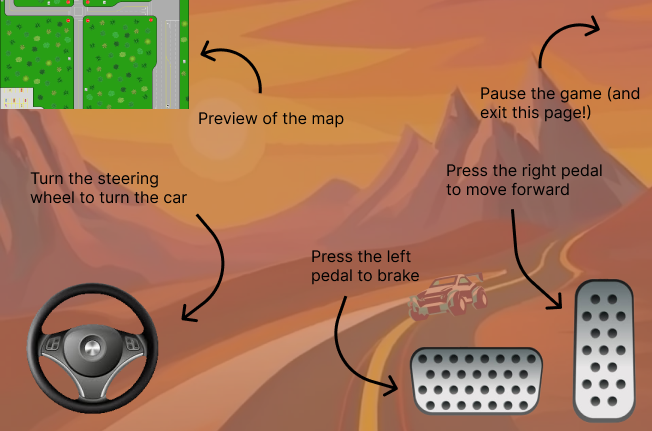
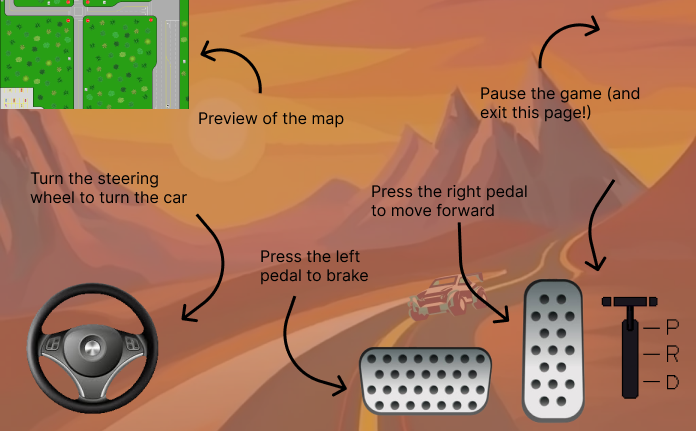
Added a gear stick with three modes

diff --git a/level.py b/level.py
@@ -4,7 +4,6 @@ from minimap import Minimap
 from map import Map
 from constants import *
 
-
 class Level:
     def __init__(self, screen, game_state_manager, position=pygame.Vector2(200, 200)):
         self.screen = screen
@@ -33,6 +32,10 @@ class Level:
         self.pause_rect = pygame.Rect(WIDTH // 10 * 9.5 - 25, HEIGHT // 10 - 25, 50, 50)
         self.minimap = Minimap(self.screen)
 
+        self.gear_image = pygame.image.load(os.path.join("Graphics", "Drive.png"))
+        self.gear_rect = self.gear_image.get_rect(center = (WIDTH // 10 * 9.6, HEIGHT // 10 * 8.2))
+        self.current_gear = "Drive"
+
         self.wheel_clicked = False
         self.wheel_image = pygame.image.load(os.path.join("Graphics", "SteeringWheel.png"))
         self.wheel_rect = self.wheel_image.get_rect(midbottom=(WIDTH // 10 + 10, HEIGHT - HEIGHT // 10 - 10))
@@ -40,16 +43,36 @@ class Level:
     def run(self):
         keys = pygame.key.get_pressed()
 
-        if keys[pygame.K_w]:
-            self.velocity -= self.acceleration
-        if keys[pygame.K_s]:
-            self.velocity += self.acceleration * 0.2
-        if keys[pygame.K_a]:
-            self.ang_vel = self.max_ang_vel
-        elif keys[pygame.K_d]:
-            self.ang_vel = -self.max_ang_vel
-        else:
-            self.ang_vel = 0
+        if self.current_gear == "Drive":
+            if keys[pygame.K_w]:
+                self.velocity -= self.acceleration
+            if keys[pygame.K_s]:
+                if self.velocity <= 0:
+                    self.velocity = 0
+                else:
+                    self.velocity += self.acceleration * 0.2
+            if keys[pygame.K_a]:
+                self.ang_vel = self.max_ang_vel
+            elif keys[pygame.K_d]:
+                self.ang_vel = -self.max_ang_vel
+            else:
+                self.ang_vel = 0
+        elif self.current_gear == "Reverse":
+            if keys[pygame.K_w]:
+                if self.velocity <= 0:
+                    self.velocity = 0
+                else:
+                    self.velocity -= self.acceleration * 0.2
+            if keys[pygame.K_s]:
+                self.velocity += self.acceleration * 0.2
+            if keys[pygame.K_a]:
+                self.ang_vel = -self.max_ang_vel
+            elif keys[pygame.K_d]:
+                self.ang_vel = self.max_ang_vel
+            else:
+                self.ang_vel = 0
+        elif self.current_gear == "Park":
+                self.velocity = 0
 
         if self.velocity < -self.max_vel:
             self.velocity = -self.max_vel
@@ -88,6 +111,7 @@ class Level:
         self.screen.blit(self.car, car_rect)
         self.draw_accelerator()
         self.draw_brake()
+        self.draw_gear()
         self.draw_pause()
         self.minimap.update_minimap(self.car_pos.x, self.car_pos.y)
 
@@ -97,6 +121,15 @@ class Level:
     def draw_brake(self):
         self.screen.blit(self.brake_image, self.brake_rect)
 
+    def draw_gear(self):
+        if self.current_gear == "Drive":
+            self.gear_mode_image = pygame.image.load(os.path.join("Graphics", "Drive.png"))
+        elif self.current_gear == "Park":
+            self.gear_mode_image = pygame.image.load(os.path.join("Graphics", "Park.png"))
+        elif self.current_gear == "Reverse":
+            self.gear_mode_image = pygame.image.load(os.path.join("Graphics", "Reverse.png"))
+        self.screen.blit(self.gear_mode_image, self.gear_rect)
+
     def draw_pause(self):
         pygame.draw.circle(self.screen, GRAY, self.pause_rect.center, 25)
         pygame.draw.rect(self.screen, WHITE, (self.pause_rect.left + 10, self.pause_rect.top + 10, 10, 30))
@@ -104,7 +137,7 @@ class Level:
 
     def draw_wheel(self):
         rotated_wheel = pygame.transform.rotate(self.wheel_image, self.rot_angle)
-        self.wheel_rect = rotated_wheel.get_rect(midbottom=(WIDTH // 10 + 10, HEIGHT - HEIGHT // 10 - 10))
+        self.wheel_rect = rotated_wheel.get_rect(midbottom = (WIDTH // 10 + 10, HEIGHT - HEIGHT // 10 - 10))
     
         if self.wheel_clicked:
             mouse_pos = pygame.mouse.get_pos()
@@ -115,18 +148,41 @@ class Level:
     
         self.screen.blit(rotated_wheel, self.wheel_rect)
 
-
     def rotate_wheel(self, angle):
         self.rot_angle += angle
         self.wheel_image = pygame.transform.rotate(pygame.image.load(os.path.join("Graphics", "SteeringWheel.png")), self.rot_angle)
         self.wheel_rect = self.wheel_image.get_rect(bottomleft=(WIDTH // 10 + 10, HEIGHT - HEIGHT // 10 - 10))
 
     def accelerate(self):
-        self.velocity -= self.acceleration
+        if self.current_gear == "Drive":
+                self.velocity -= self.acceleration
+        elif self.current_gear == "Park":
+            self.velocity = 0
+        elif self.current_gear == "Reverse":
+            self.velocity += self.acceleration
 
     def accelerator(self):
         accelerator_rect = pygame.Rect(WIDTH // 10 * 9, HEIGHT // 10 * 8, 45, 115)
         pygame.draw.rect(self.screen, GRAY, accelerator_rect)
 
     def brake(self):
-        self.velocity += self.acceleration * 0.2
+        if self.current_gear == "Drive":
+            if self.velocity <= 0:
+                self.velocity = 0
+            else:
+                self.velocity += self.acceleration * 0.2
+        elif self.current_gear == "Park":
+                self.velocity = 0
+        elif self.current_gear == "Reverse":
+            if self.velocity <= 0:
+                self.velocity = 0
+            else:
+                self.velocity -= self.acceleration * 0.2
+    
+    def gear(self):
+        if self.current_gear == "Drive":
+            self.current_gear = "Park"
+        elif self.current_gear == "Park":
+            self.current_gear = "Reverse"
+        elif self.current_gear == "Reverse":
+            self.current_gear = "Drive"

diff --git a/game.py b/game.py
@@ -56,6 +56,8 @@ class Game:
                                 self.level.accelerate()
                             elif self.level.brake_rect.collidepoint(event.pos):
                                 self.level.brake()
+                            elif self.level.gear_rect.collidepoint(event.pos):
+                                self.level.gear()
                             elif self.level.wheel_rect.collidepoint(event.pos):
                                 self.wheel_clicked = True
                                 dx, dy = event.pos[0] - self.level.wheel_rect.centerx, event.pos[1] - self.level.wheel_rect.centery
@@ -103,6 +105,8 @@ class Game:
                                 self.level.brake()
                                 self.brake_intensity += 1
                                 self.velocity += self.acceleration * self.brake_intensity
+                            elif self.level.gear_rect.collidepoint(event.pos):
+                                self.level.gear()
                             elif self.level.wheel_rect.collidepoint(touch_x, touch_y):
                                 self.wheel_clicked = True
                                 dx, dy = touch_x - self.level.wheel_rect.centerx, touch_y - self.level.wheel_rect.centery
